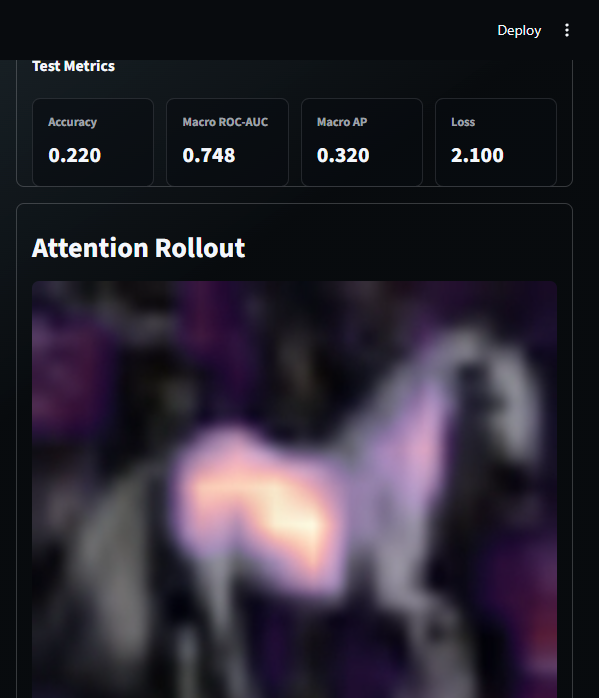
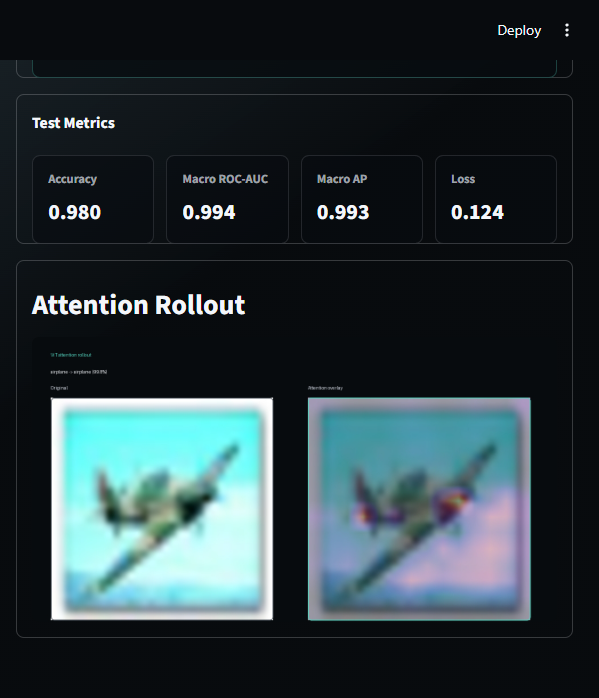
Improve transformer benchmark accuracy and proof

diff --git a/src/xai_vision_demo/transformer_experiment.py b/src/xai_vision_demo/transformer_experiment.py
@@ -6,12 +6,12 @@ from pathlib import Path
 from time import perf_counter
 
 import numpy as np
-from PIL import Image
+from PIL import Image, ImageDraw
 import torch
 import torch.nn as nn
 from sklearn.model_selection import train_test_split
 from torch.optim import AdamW
-from torch.utils.data import DataLoader, Dataset, Subset
+from torch.utils.data import DataLoader, Dataset
 from torchvision import datasets
 
 from xai_vision_demo.data import build_transforms
@@ -22,17 +22,26 @@ from xai_vision_demo.train import run_epoch, save_training_plot, set_seed
 from xai_vision_demo.transformer_explain import attention_rollout_heatmap
 
 
-class DatasetWithIds(Dataset):
-    def __init__(self, dataset: Dataset, prefix: str):
+class CifarSubsetWithIds(Dataset):
+    def __init__(
+        self,
+        dataset: Dataset,
+        indices: list[int],
+        label_map: dict[int, int],
+        prefix: str,
+    ):
         self.dataset = dataset
+        self.indices = indices
+        self.label_map = label_map
         self.prefix = prefix
 
     def __len__(self) -> int:
-        return len(self.dataset)
+        return len(self.indices)
 
     def __getitem__(self, index: int) -> tuple[torch.Tensor, int, str]:
-        image, label = self.dataset[index]
-        return image, int(label), f"{self.prefix}:{index}"
+        source_index = self.indices[index]
+        image, label = self.dataset[source_index]
+        return image, self.label_map[int(label)], f"{self.prefix}:{source_index}"
 
 
 def parse_args() -> argparse.Namespace:
@@ -42,6 +51,12 @@ def parse_args() -> argparse.Namespace:
     parser.add_argument("--output-dir", default="runs/cifar10_vit_b_16")
     parser.add_argument("--data-dir", default="data/public")
     parser.add_argument("--arch", choices=["vit_b_16", "swin_t"], default="vit_b_16")
+    parser.add_argument(
+        "--classes",
+        nargs="+",
+        default=None,
+        help="Optional CIFAR-10 class names to keep, for example: --classes airplane ship",
+    )
     parser.add_argument("--epochs", type=int, default=2)
     parser.add_argument("--batch-size", type=int, default=16)
     parser.add_argument("--image-size", type=int, default=224)
@@ -91,22 +106,34 @@ def make_cifar10_loaders(
     seed: int,
     num_workers: int,
     download: bool,
-) -> tuple[dict[str, DataLoader], list[str], dict[str, list[int]]]:
+    selected_classes: list[str] | None,
+) -> tuple[dict[str, DataLoader], list[str], dict[str, list[int]], dict[int, int]]:
     train_raw = datasets.CIFAR10(root=data_dir, train=True, download=download)
     test_raw = datasets.CIFAR10(root=data_dir, train=False, download=download)
-    class_names = list(train_raw.classes)
+    base_class_names = list(train_raw.classes)
+    if selected_classes:
+        unknown = sorted(set(selected_classes) - set(base_class_names))
+        if unknown:
+            raise ValueError(f"Unknown CIFAR-10 class names: {unknown}")
+        class_names = selected_classes
+    else:
+        class_names = base_class_names
+    selected_labels = [base_class_names.index(class_name) for class_name in class_names]
+    label_map = {source_label: target_label for target_label, source_label in enumerate(selected_labels)}
 
     train_labels = np.asarray(train_raw.targets)
     test_labels = np.asarray(test_raw.targets)
+    train_candidates = np.flatnonzero(np.isin(train_labels, selected_labels))
+    test_candidates = np.flatnonzero(np.isin(test_labels, selected_labels))
     train_indices, val_indices = train_test_split(
-        np.arange(len(train_labels)),
+        train_candidates,
         test_size=val_size,
-        stratify=train_labels,
+        stratify=train_labels[train_candidates],
         random_state=seed,
     )
     train_indices = stratified_limit(train_indices, train_labels, max_train_samples, seed)
     val_indices = stratified_limit(val_indices, train_labels, max_val_samples, seed)
-    test_indices = stratified_limit(np.arange(len(test_labels)), test_labels, max_test_samples, seed)
+    test_indices = stratified_limit(test_candidates, test_labels, max_test_samples, seed)
 
     train_dataset = datasets.CIFAR10(
         root=data_dir,
@@ -129,21 +156,21 @@ def make_cifar10_loaders(
 
     loaders = {
         "train": DataLoader(
-            DatasetWithIds(Subset(train_dataset, train_indices), "cifar10-train"),
+            CifarSubsetWithIds(train_dataset, train_indices, label_map, "cifar10-train"),
             batch_size=batch_size,
             shuffle=True,
             num_workers=num_workers,
             pin_memory=torch.cuda.is_available(),
         ),
         "val": DataLoader(
-            DatasetWithIds(Subset(eval_train_dataset, val_indices), "cifar10-val"),
+            CifarSubsetWithIds(eval_train_dataset, val_indices, label_map, "cifar10-val"),
             batch_size=batch_size,
             shuffle=False,
             num_workers=num_workers,
             pin_memory=torch.cuda.is_available(),
         ),
         "test": DataLoader(
-            DatasetWithIds(Subset(test_dataset, test_indices), "cifar10-test"),
+            CifarSubsetWithIds(test_dataset, test_indices, label_map, "cifar10-test"),
             batch_size=batch_size,
             shuffle=False,
             num_workers=num_workers,
@@ -154,7 +181,31 @@ def make_cifar10_loaders(
         "train": train_indices,
         "val": val_indices,
         "test": test_indices,
-    }
+    }, label_map
+
+
+def save_rollout_card(
+    image: Image.Image,
+    overlay: Image.Image,
+    output_path: Path,
+    true_class: str,
+    predicted_class: str,
+    confidence: float,
+) -> None:
+    canvas = Image.new("RGB", (1180, 640), "#080b0e")
+    draw = ImageDraw.Draw(canvas)
+    draw.text((42, 34), "ViT attention rollout", fill="#55d7c2")
+    draw.text((42, 72), f"{true_class} -> {predicted_class} ({confidence:.1%})", fill="#f4f7fb")
+    draw.text((42, 108), "Original", fill="#d7dee8")
+    draw.text((620, 108), "Attention overlay", fill="#d7dee8")
+
+    original = image.resize((500, 500), Image.Resampling.BICUBIC)
+    rollout = overlay.resize((500, 500), Image.Resampling.BICUBIC)
+    canvas.paste(original, (42, 136))
+    canvas.paste(rollout, (620, 136))
+    draw.rounded_rectangle((42, 136, 542, 636), radius=8, outline="#2c353d", width=2)
+    draw.rounded_rectangle((620, 136, 1120, 636), radius=8, outline="#55d7c2", width=2)
+    canvas.save(output_path)
 
 
 def save_attention_rollout_example(
@@ -163,6 +214,8 @@ def save_attention_rollout_example(
     output_path: Path,
     image_size: int,
     test_indices: list[int],
+    label_map: dict[int, int],
+    class_names: list[str],
     device: torch.device,
     discard_ratio: float,
 ) -> None:
@@ -170,15 +223,39 @@ def save_attention_rollout_example(
         return
 
     raw_test = datasets.CIFAR10(root=data_dir, train=False, download=False)
-    image, _label = raw_test[test_indices[0]]
+    transform = build_transforms(image_size=image_size, train=False)
+    best: tuple[float, int, Image.Image, int, int] | None = None
+    fallback: tuple[float, int, Image.Image, int, int] | None = None
+    with torch.no_grad():
+        for source_index in test_indices:
+            image, source_label = raw_test[source_index]
+            if not isinstance(image, Image.Image):
+                image = Image.fromarray(image)
+            label = label_map[int(source_label)]
+            image_tensor = transform(image).unsqueeze(0).to(device)
+            probabilities = torch.softmax(model(image_tensor), dim=1).squeeze(0)
+            confidence, predicted = probabilities.max(dim=0)
+            candidate = (float(confidence), source_index, image, label, int(predicted))
+            if fallback is None or candidate[0] > fallback[0]:
+                fallback = candidate
+            if int(predicted) == label and (best is None or candidate[0] > best[0]):
+                best = candidate
+
+    confidence, _source_index, image, label, predicted = best or fallback
     if not isinstance(image, Image.Image):
         image = Image.fromarray(image)
 
-    transform = build_transforms(image_size=image_size, train=False)
     image_tensor = transform(image).unsqueeze(0).to(device)
     heatmap = attention_rollout_heatmap(model, image_tensor, discard_ratio=discard_ratio)
     overlay = overlay_heatmap(image.resize((image_size, image_size)), heatmap)
-    overlay.save(output_path)
+    save_rollout_card(
+        image=image,
+        overlay=overlay,
+        output_path=output_path,
+        true_class=class_names[label],
+        predicted_class=class_names[predicted],
+        confidence=confidence,
+    )
 
 
 def save_experiment_card(
@@ -187,6 +264,9 @@ def save_experiment_card(
     test_metrics: dict[str, float | None],
     split_indices: dict[str, list[int]],
 ) -> None:
+    def render_metric(value: float | None) -> str:
+        return "n/a" if value is None else f"{value:.3f}"
+
     card = f"""# CIFAR-10 Transformer Experiment
 
 ## Setup
@@ -196,14 +276,15 @@ def save_experiment_card(
 - Pretrained weights: `{args.pretrained}`
 - Frozen backbone: `{args.freeze_backbone}`
 - Image size: `{args.image_size}`
+- CIFAR-10 classes: `{", ".join(args.classes or ["all"])}`
 - Train / validation / test samples: `{len(split_indices["train"])}` / `{len(split_indices["val"])}` / `{len(split_indices["test"])}`
 
 ## Test Metrics
 
-- Accuracy: `{test_metrics["accuracy"]:.3f}`
-- Macro ROC-AUC OVR: `{test_metrics["macro_auc_ovr"]:.3f}`
-- Macro average precision: `{test_metrics["macro_average_precision"]:.3f}`
-- Loss: `{test_metrics["loss"]:.3f}`
+- Accuracy: `{render_metric(test_metrics["accuracy"])}`
+- Macro ROC-AUC OVR: `{render_metric(test_metrics["macro_auc_ovr"])}`
+- Macro average precision: `{render_metric(test_metrics["macro_average_precision"])}`
+- Loss: `{render_metric(test_metrics["loss"])}`
 
 ## Explainability
 
@@ -229,7 +310,7 @@ def main() -> None:
     output_dir.mkdir(parents=True, exist_ok=True)
     data_dir = Path(args.data_dir)
 
-    loaders, class_names, split_indices = make_cifar10_loaders(
+    loaders, class_names, split_indices, label_map = make_cifar10_loaders(
         data_dir=data_dir,
         image_size=args.image_size,
         batch_size=args.batch_size,
@@ -240,6 +321,7 @@ def main() -> None:
         seed=args.seed,
         num_workers=args.num_workers,
         download=args.download,
+        selected_classes=args.classes,
     )
     (output_dir / "classes.json").write_text(json.dumps(class_names, indent=2), encoding="utf-8")
     (output_dir / "run_config.json").write_text(
@@ -298,6 +380,7 @@ def main() -> None:
                     "pretrained": args.pretrained,
                     "freeze_backbone": args.freeze_backbone,
                     "dataset": "CIFAR10",
+                    "source_class_names": class_names,
                     "split_indices": split_indices,
                 },
                 output_dir / "best_model.pt",
@@ -324,6 +407,8 @@ def main() -> None:
             output_path=output_dir / "attention_rollout_example.png",
             image_size=args.image_size,
             test_indices=split_indices["test"],
+            label_map=label_map,
+            class_names=class_names,
             device=device,
             discard_ratio=args.attention_discard_ratio,
         )

diff --git a/app/transformer_attention_lab.py b/app/transformer_attention_lab.py
@@ -181,8 +181,8 @@ def metric_card(label: str, value: float | int | str) -> str:
 st.markdown('<div class="xai-kicker">Transformer experiment</div>', unsafe_allow_html=True)
 st.title("Transformer Attention Lab")
 st.markdown(
-    '<div class="xai-subtitle">A compact model-audit surface for the CIFAR-10 ViT/Swin '
-    "experiment, with metric cards, run provenance, and a transformer-native attention "
+    '<div class="xai-subtitle">A focused model-audit surface for a CIFAR-10 airplane-vs-ship '
+    "ViT experiment, with metric cards, run provenance, and a transformer-native attention "
     "rollout artifact.</div>",
     unsafe_allow_html=True,
 )
@@ -190,7 +190,7 @@ st.markdown(
     """
     <div class="xai-pill-row">
         <span class="xai-pill">CIFAR-10</span>
-        <span class="xai-pill">ViT / Swin</span>
+        <span class="xai-pill">Airplane vs ship</span>
         <span class="xai-pill">Attention rollout</span>
     </div>
     """,
@@ -201,7 +201,7 @@ control_col, summary_col = st.columns([0.38, 0.62], gap="large", vertical_alignm
 with control_col:
     with st.container(border=True):
         st.markdown('<div class="xai-panel-title">Run Directory</div>', unsafe_allow_html=True)
-        run_dir_text = st.text_input("Run directory", "runs/cifar10_vit_smoke")
+        run_dir_text = st.text_input("Run directory", "runs/cifar10_vit_airship")
         run_dir = (ROOT / run_dir_text).resolve()
         st.caption(str(run_dir))
 
@@ -212,11 +212,12 @@ with summary_col:
             """
             <div class="xai-command">python -m xai_vision_demo.transformer_experiment ^
   --arch vit_b_16 ^
-  --output-dir runs/cifar10_vit_smoke ^
-  --epochs 1 ^
-  --max-train-samples 100 ^
-  --max-val-samples 50 ^
-  --max-test-samples 50</div>
+  --classes airplane ship ^
+  --output-dir runs/cifar10_vit_airship ^
+  --epochs 3 ^
+  --max-train-samples 1000 ^
+  --max-val-samples 200 ^
+  --max-test-samples 200</div>
             """,
             unsafe_allow_html=True,
         )

diff --git a/tests/test_metrics.py b/tests/test_metrics.py
@@ -23,3 +23,21 @@ def test_classification_metrics_multiclass_are_bounded():
     assert 0.0 <= metrics["macro_auc_ovr"] <= 1.0
     assert metrics["macro_average_precision"] is not None
     assert 0.0 <= metrics["macro_average_precision"] <= 1.0
+
+
+def test_classification_metrics_binary_auc_and_average_precision_are_available():
+    y_true = np.array([0, 1, 0, 1])
+    y_prob = np.array(
+        [
+            [0.90, 0.10],
+            [0.20, 0.80],
+            [0.75, 0.25],
+            [0.30, 0.70],
+        ]
+    )
+
+    metrics = classification_metrics(y_true, y_prob, ["airplane", "ship"])
+
+    assert metrics["accuracy"] == 1.0
+    assert metrics["macro_auc_ovr"] == 1.0
+    assert metrics["macro_average_precision"] == 1.0

diff --git a/src/xai_vision_demo/metrics.py b/src/xai_vision_demo/metrics.py
@@ -33,6 +33,18 @@ def classification_metrics(
         "macro_auc_ovr": None,
         "macro_average_precision": None,
     }
+    if len(class_names) == 2:
+        try:
+            metrics["macro_auc_ovr"] = float(roc_auc_score(y_true, y_prob[:, 1]))
+        except ValueError:
+            metrics["macro_auc_ovr"] = None
+
+        try:
+            metrics["macro_average_precision"] = float(average_precision_score(y_true, y_prob[:, 1]))
+        except ValueError:
+            metrics["macro_average_precision"] = None
+        return metrics
+
     try:
         metrics["macro_auc_ovr"] = float(
             roc_auc_score(y_true_binary, y_prob, average="macro", multi_class="ovr")

diff --git a/README.md b/README.md
@@ -94,15 +94,16 @@ Run a small public-dataset transformer experiment:
 ```bash
 python -m xai_vision_demo.transformer_experiment \
   --arch vit_b_16 \
-  --output-dir runs/cifar10_vit_b_16 \
-  --epochs 2 \
-  --max-train-samples 2000 \
-  --max-val-samples 500 \
-  --max-test-samples 500
+  --classes airplane ship \
+  --output-dir runs/cifar10_vit_airship \
+  --epochs 3 \
+  --max-train-samples 1000 \
+  --max-val-samples 200 \
+  --max-test-samples 200
 ```
 
 That command downloads CIFAR-10 through `torchvision`, fine-tunes a pretrained ViT-B/16
-classification head by default, writes `best_model.pt`, `metrics_history.json`,
+classification head on a focused airplane-vs-ship public benchmark, writes `best_model.pt`, `metrics_history.json`,
 `test_metrics.json`, `run_config.json`, `experiment_card.md`, `training_curves.png`,
 and saves `attention_rollout_example.png`.
 Use `--arch swin_t` for a Swin-T classification baseline, or `--no-freeze-backbone`
@@ -171,8 +172,8 @@ The evaluator reports:
 
 The `xai_vision_demo.transformer_experiment` module is a compact public-dataset run for
 showing the repo is not limited to CNN GradCAM. It uses CIFAR-10 as a reproducible public
-dataset, supports `vit_b_16` and `swin_t`, and keeps the default settings intentionally
-small enough for a portfolio demo. The ViT path exports an attention-rollout overlay so
+dataset, supports `vit_b_16` and `swin_t`, and can be scoped to focused class pairs such
+as airplane-vs-ship for a crisp, high-signal portfolio demo. The ViT path exports an attention-rollout overlay so
 the model audit includes a transformer-native explanation artifact alongside the usual
 classification metrics. The companion `app/transformer_attention_lab.py` dashboard presents
 those artifacts as a reviewer-friendly experiment report.
